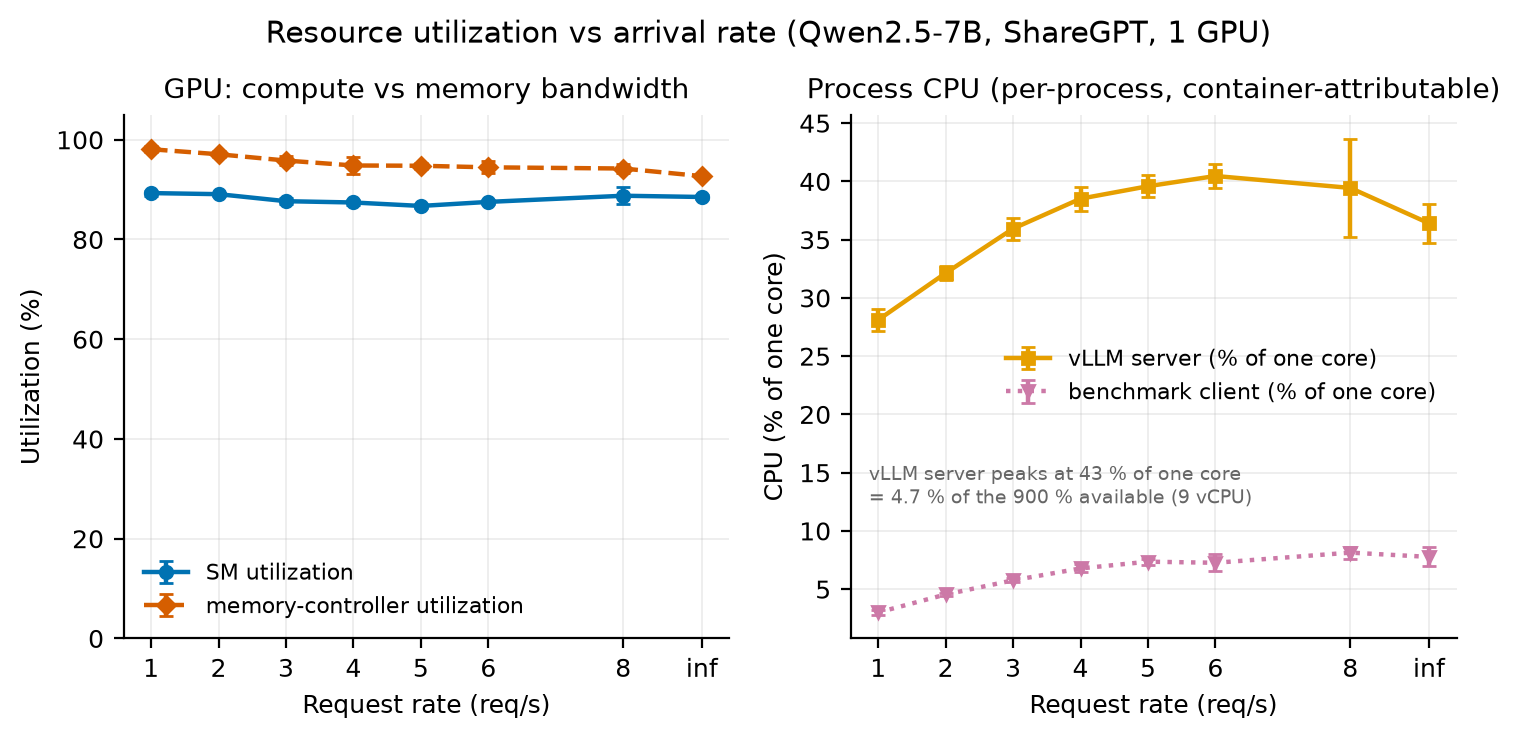
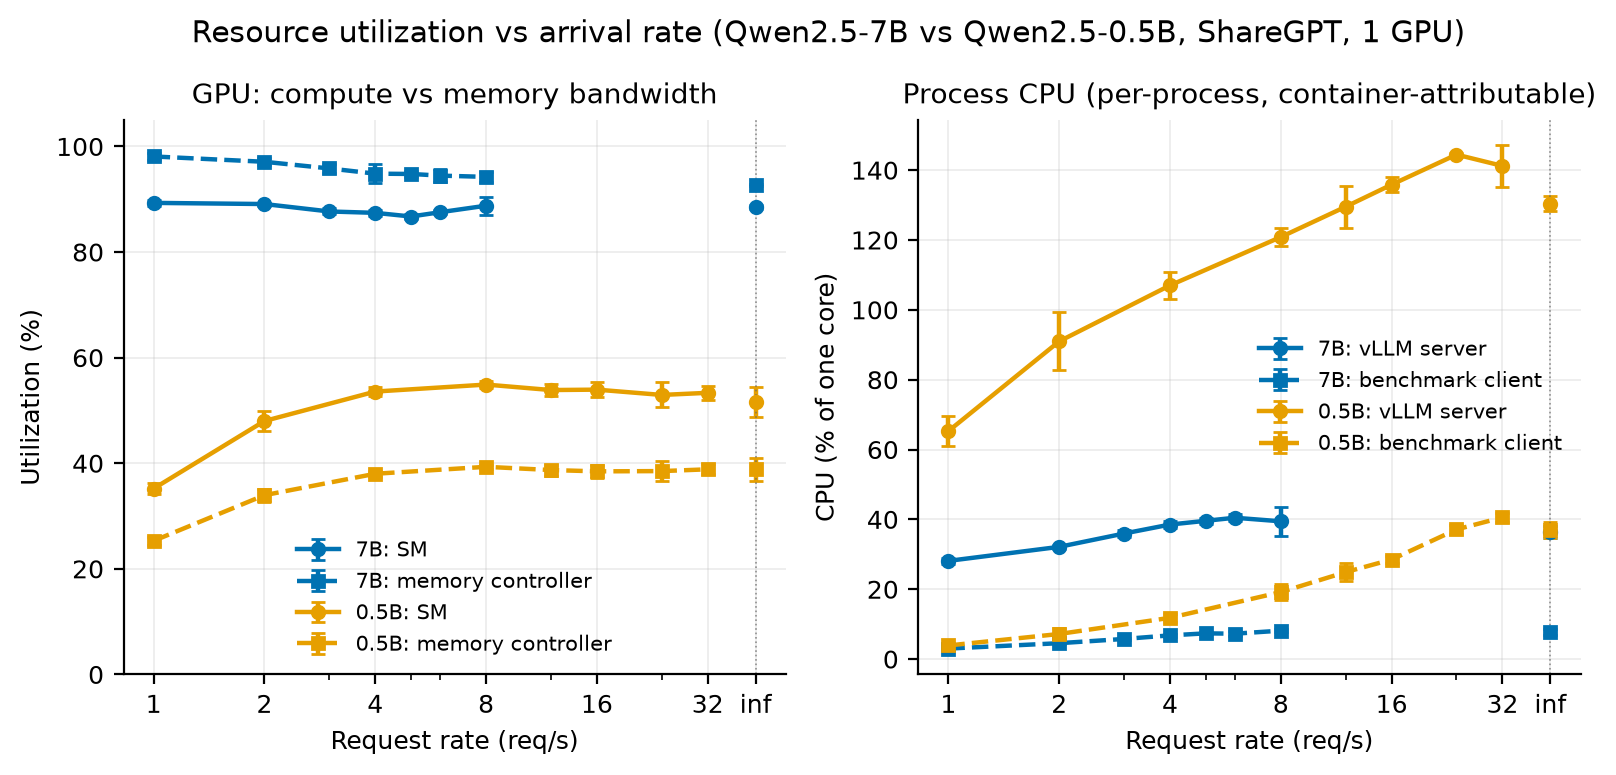
Add the 0.5B series to the resource-utilization figure

diff --git a/scripts/plots/fig09_resources.py b/scripts/plots/fig09_resources.py
@@ -1,11 +1,19 @@
-"""Figure 9: resource utilization vs arrival rate.
+"""Figure 9: resource utilization vs arrival rate, 7B against 0.5B.
 
-Left  - GPU SM utilization and memory-controller utilization. The gap between
-        them is the compute-bound / bandwidth-bound signal: decode-dominated
-        load drives the memory controller far harder than the SMs.
-Right - host CPU (total and the busiest core) plus the server/client split.
-        This covers the assignment's "document CPU performance" item and shows
-        whether the co-located benchmark client became the limiter at high rate.
+Left  - GPU SM utilization and memory-controller utilization for both models.
+        On 7B the two sit near 90 % with the memory controller the harder
+        pressed of the pair, which is the bandwidth-bound signal. On 0.5B both
+        fall to roughly half that and flatten, so no GPU resource is the limit.
+Right - per-process CPU for the vLLM server and the co-located benchmark
+        client. The 7B server settles below half a core while the 0.5B server
+        passes a full core and keeps climbing.
+
+The two models share both panels because the claim in section 5.5 is about the
+limiting resource *changing* with model size, not about either model alone:
+moving from 7B to 0.5B pushes the GPU curves down and the CPU curve up in the
+same figure. The two rate grids differ (7B 1-8 req/s, 0.5B 1-32), so the x axis
+is the union of the two on a log scale with a shared offline point; see
+common.rate_axis.
 
 Data: resources*.csv (1 Hz) sliced by the manifest window of each run, averaged
 over the run and then over repetitions.
@@ -15,8 +23,18 @@ import statistics as st
 
 import matplotlib.pyplot as plt
 
-from common import (C, MARKERS, SERIES, INF_LABEL, gpu_columns, mean_of,
-                    rate_key, resource_rows, save, select, xpos)
+from common import (C, MARKERS, SERIES, annotate_inf, gpu_columns, mean_of,
+                    plot_series, rate_axis, rate_key, resource_rows, save,
+                    select)
+
+# Model -> colour, matching figure 6 so the same model keeps the same colour
+# across the report. Metric is encoded by line style and marker instead, which
+# leaves the four curves per panel separable on both channels.
+MODELS = (("S1", "7B", SERIES[0]), ("S3", "0.5B", SERIES[1]))
+GPU_METRICS = (("util", "SM", MARKERS[0], "-"),
+               ("memutil", "memory controller", MARKERS[1], "--"))
+CPU_METRICS = (("cpu_server_pct", "vLLM server", MARKERS[0], "-"),
+               ("cpu_client_pct", "benchmark client", MARKERS[1], "--"))
 
 
 def _by_rate(runs, group, col, gpu_agg=False):
@@ -48,33 +66,48 @@ def _by_rate(runs, group, col, gpu_agg=False):
     return out
 
 
-def _draw(ax, pts, label, color, marker, ls="-"):
-    if not pts:
+def _panel(ax, runs, metrics, inf_x, gpu_agg=False):
+    """Draw every (model, metric) pair on one panel. True if anything drew."""
+    drawn = []
+    for group, model, colour in MODELS:
+        for col, metric, marker, ls in metrics:
+            pts = _by_rate(runs, group, col, gpu_agg=gpu_agg)
+            if not pts:
+                continue  # missing metric: leave the gap, do not interpolate
+            # set_ticks=False because rate_axis below owns the tick set; a
+            # per-series call would leave only the last grid on the axis.
+            plot_series(ax, pts, f"{model}: {metric}", colour, marker, ls,
+                        inf_x=inf_x, set_ticks=False)
+            drawn.append(pts)
+    if not drawn:
         return False
-    xs, labels = xpos(pts)
-    ax.errorbar(xs, [p[1] for p in pts], yerr=[p[2] for p in pts],
-                label=label, color=color, marker=marker, linestyle=ls)
-    if any(l == INF_LABEL for l in labels):
-        ax.set_xticks(xs)
-        ax.set_xticklabels(labels)
+    # annotate_inf reads the offline point off the end of the series, so it
+    # needs one series that actually has one rather than the concatenation.
+    with_inf = next((p for p in drawn if any(q[0] == "inf" for q in p)), None)
+    if with_inf:
+        annotate_inf(ax, with_inf, inf_x)
+    rate_axis(ax, drawn, inf_x)
     return True
 
 
-def fig09(runs, outdir, group="S1"):
-    fig, (a1, a2) = plt.subplots(1, 2, figsize=(8.6, 3.4))
-    any_data = False
+def fig09(runs, outdir, models=MODELS):
+    fig, (a1, a2) = plt.subplots(1, 2, figsize=(9.4, 3.6))
+
+    # One offline position for the whole figure, derived from the widest grid,
+    # so both models' 'inf' points land on the same x. Without this the 0.5B
+    # offline point would sit one of its own steps past 32 while the 7B one sat
+    # one step past 8, and the latter would read as a finite rate near 9.
+    probe = [_by_rate(runs, g, "util", gpu_agg=True) for g, _, _ in models]
+    finite = [float(p[0]) for pts in probe for p in pts if p[0] != "inf"]
+    inf_x = max(finite) * 1.35 if finite else 1.0
 
     # ---- GPU ---------------------------------------------------------------
-    any_data |= _draw(a1, _by_rate(runs, group, "util", gpu_agg=True),
-                      "SM utilization", SERIES[0], MARKERS[0])
-    any_data |= _draw(a1, _by_rate(runs, group, "memutil", gpu_agg=True),
-                      "memory-controller utilization", SERIES[3], MARKERS[3],
-                      "--")
+    any_data = _panel(a1, runs, GPU_METRICS, inf_x, gpu_agg=True)
     a1.set_xlabel("Request rate (req/s)")
     a1.set_ylabel("Utilization (%)")
     a1.set_ylim(0, 105)
     a1.set_title("GPU: compute vs memory bandwidth")
-    a1.legend()
+    a1.legend(fontsize=7.5)
 
     # ---- CPU ---------------------------------------------------------------
     # Only the per-process counters are used. cpu_total and cpu_max_core are
@@ -83,31 +116,18 @@ def fig09(runs, outdir, group="S1"):
     # at 5-8 % regardless of load and cpu_max_core sits near 100 % even at
     # idle. Plotting them would show two meaningless flat lines and hide the
     # server-side trend that the bottleneck analysis rests on. See D33.
-    _draw(a2, _by_rate(runs, group, "cpu_server_pct"),
-          "vLLM server (% of one core)", SERIES[1], MARKERS[1])
-    _draw(a2, _by_rate(runs, group, "cpu_client_pct"),
-          "benchmark client (% of one core)", SERIES[4], MARKERS[4], ":")
-    # The container has 9 vCPUs, i.e. a 900 % ceiling. Stating it in text
-    # rather than drawing the line keeps the axis readable: the server sits
-    # near 40 % on 7B and 144 % on 0.5B, so a line at 900 would flatten both.
+    any_data |= _panel(a2, runs, CPU_METRICS, inf_x)
+    # The container has 9 vCPUs, i.e. a 900 % ceiling, which is left out of the
+    # panel: a line 6x above the highest curve would flatten everything below
+    # it. The earlier version stated the headroom as a text annotation, but
+    # that was computed for a single group and would now report one model's
+    # peak while showing two. The per-model peaks (39.6 % on 7B, 144.4 % on
+    # 0.5B, both against 900 %) are stated in section 5.5 instead.
     # Subtract ~2-3 % from the server series for the logger's own cost (D36).
-    # State the headroom as a ratio, not as a number 20x off the axis: the
-    # panel tops out near 45 % and a bare "900 %" cannot be related to it.
-    peak = max((mean_of(resource_rows(r), "cpu_server_pct")
-                for r in select(runs, group=group)), default=0.0)
-    if peak:
-        # The panel has exactly one free band. The server curve occupies
-        # 28-41 %, the client 3-8 %, and the legend sits at 20-27 %, so the
-        # note goes at 11-17 %. Upper-left crossed the server curve at rates
-        # 5-6 and mid-left ran into the legend.
-        a2.annotate(f"vLLM server peaks at {peak:.0f} % of one core\n"
-                    f"= {peak / 9:.1f} % of the 900 % available (9 vCPU)",
-                    xy=(0.03, 0.29), xycoords="axes fraction", fontsize=7,
-                    color=C["grey"], va="center")
     a2.set_xlabel("Request rate (req/s)")
     a2.set_ylabel("CPU (% of one core)")
     a2.set_title("Process CPU (per-process, container-attributable)")
-    a2.legend()
+    a2.legend(fontsize=7.5)
 
     if not any_data:
         for a in (a1, a2):
@@ -119,7 +139,7 @@ def fig09(runs, outdir, group="S1"):
             a.set_axis_off()
 
     fig.suptitle("Resource utilization vs arrival rate "
-                 "(Qwen2.5-7B, ShareGPT, 1 GPU)", y=1.02)
+                 "(Qwen2.5-7B vs Qwen2.5-0.5B, ShareGPT, 1 GPU)", y=1.02)
     return save(fig, "fig09_resources_vs_rate", outdir)
 
 

diff --git a/scripts/plots/figs_sweep.py b/scripts/plots/figs_sweep.py
@@ -17,9 +17,8 @@ import matplotlib.pyplot as plt
 
 import statistics as st
 
-from common import (C, INF_LABEL, MARKERS, SERIES, aggregate, annotate_inf,
-                    log_latency, phase_records, plot_series, save, select,
-                    xpos)
+from common import (C, MARKERS, SERIES, aggregate, annotate_inf, log_latency,
+                    phase_records, plot_series, rate_axis, save, select, xpos)
 
 # Panels for these fields get a log y-axis; see common.log_latency for why.
 # Throughput stays linear: it spans well under one order of magnitude, and the
@@ -39,34 +38,6 @@ def _panel(ax, runs, group, field, label, color, marker, ls="-", inf_x=None,
                 set_ticks=set_ticks)
     annotate_inf(ax, pts, inf_x)
     return pts
-
-
-def _rate_axis(ax, groups_pts, inf_x):
-    """One tick set covering every group's rate grid, shared 'inf' at the end.
-
-    Overlays can mix grids - figure 6 puts 7B (1-8 req/s) against 0.5B
-    (1-32 req/s) - so the union spans 1 to 32 and is unreadable on a linear
-    axis, where 1, 2 and 4 collide while 24 and 32 sit far apart. A log axis
-    spaces them evenly. Only a power-of-two subset is labelled; the remaining
-    rates get unlabelled minor ticks so the points are still locatable.
-    """
-    finite = sorted({float(p[0]) for pts in groups_pts for p in pts
-                     if p[0] != "inf"})
-    if not finite:
-        return
-    # Only switch to log when the grids really are far apart. Figure 6 mixes
-    # 1-8 (7B) with 1-32 (0.5B) and needs it; figures 4 and 7 stay on 1-8,
-    # where a linear axis can label every rate including 3, 5 and 6.
-    wide = max(finite) / min(finite) >= 16
-    if wide:
-        ax.set_xscale("log")
-    major = [r for r in finite if r in (1, 2, 4, 8, 16, 32)] if wide else finite
-    ax.set_xticks(major + [inf_x])
-    ax.set_xticklabels([f"{r:g}" for r in major] + [INF_LABEL])
-    minor = [r for r in finite if r not in major]
-    if minor:
-        ax.set_xticks(minor, minor=True)
-        ax.set_xticklabels([], minor=True)
 
 
 def fig01(runs, outdir):
@@ -204,7 +175,7 @@ def _overlay(runs, outdir, groups, names, title, name, fields=None,
             pts_all.append(_panel(ax, runs, g, field, nm, SERIES[i],
                                   MARKERS[i], "-" if i == 0 else "--",
                                   inf_x=inf_x, set_ticks=False))
-        _rate_axis(ax, pts_all, inf_x)
+        rate_axis(ax, pts_all, inf_x)
         if field in LOG_FIELDS or field in log_fields:
             log_latency(ax)
             ylabel = ylabel.replace(")", ", log scale)")

diff --git a/scripts/plots/common.py b/scripts/plots/common.py
@@ -291,6 +291,35 @@ def annotate_inf(ax, points, inf_x=None):
         ax.axvline(xs[-1], color=C["grey"], lw=0.6, ls=":", alpha=0.7)
 
 
+def rate_axis(ax, groups_pts, inf_x):
+    """One tick set covering every group's rate grid, shared 'inf' at the end.
+
+    Overlays can mix grids - figures 6 and 9 both put 7B (1-8 req/s) against
+    0.5B (1-32 req/s) - so the union spans 1 to 32 and is unreadable on a
+    linear axis, where 1, 2 and 4 collide while 24 and 32 sit far apart. A log
+    axis spaces them evenly. Only a power-of-two subset is labelled; the
+    remaining rates get unlabelled minor ticks so the points are still
+    locatable.
+    """
+    finite = sorted({float(p[0]) for pts in groups_pts for p in pts
+                     if p[0] != "inf"})
+    if not finite:
+        return
+    # Only switch to log when the grids really are far apart. Figures 6 and 9
+    # mix 1-8 (7B) with 1-32 (0.5B) and need it; figures 4 and 7 stay on 1-8,
+    # where a linear axis can label every rate including 3, 5 and 6.
+    wide = max(finite) / min(finite) >= 16
+    if wide:
+        ax.set_xscale("log")
+    major = [r for r in finite if r in (1, 2, 4, 8, 16, 32)] if wide else finite
+    ax.set_xticks(major + [inf_x])
+    ax.set_xticklabels([f"{r:g}" for r in major] + [INF_LABEL])
+    minor = [r for r in finite if r not in major]
+    if minor:
+        ax.set_xticks(minor, minor=True)
+        ax.set_xticklabels([], minor=True)
+
+
 def log_latency(ax):
     """Put a latency axis on a log scale, with readable (non-exponent) ticks.
 
